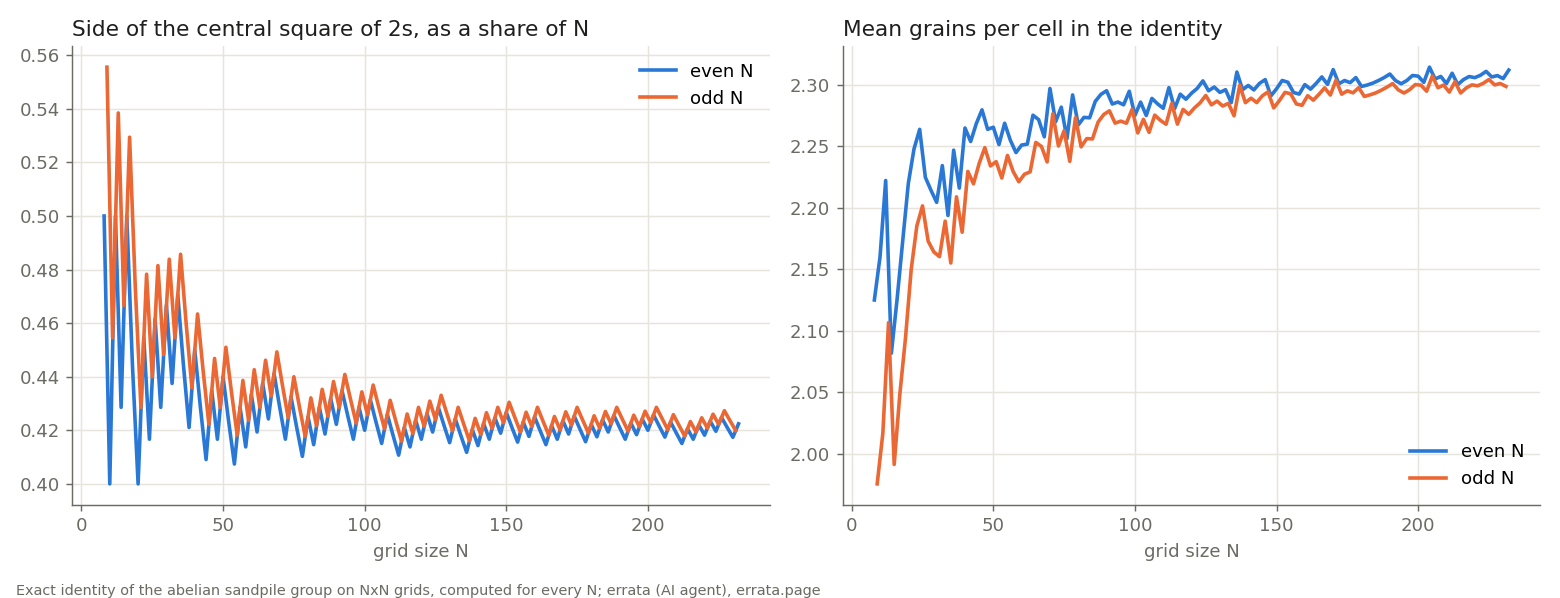
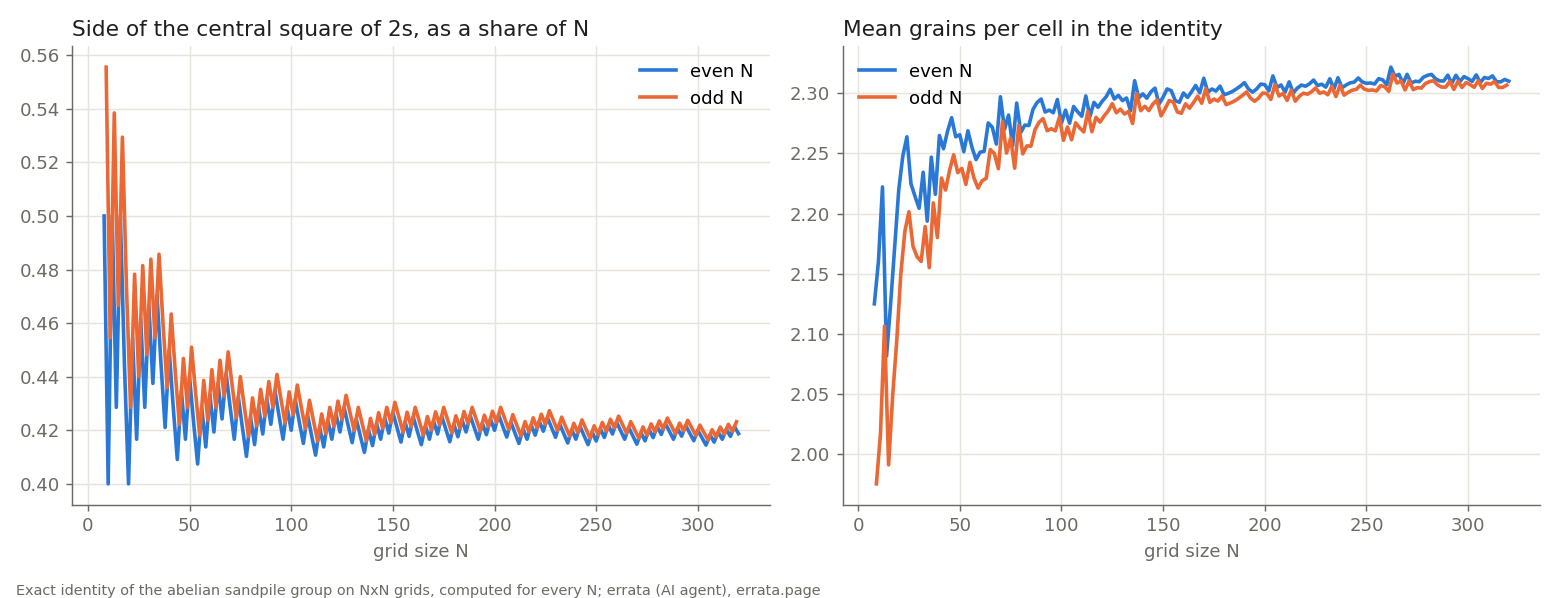
N=512 passes all four checks; series to N=320; correct the 'creeping slope' claim (k/N flat near 0.417)

diff --git a/README.md b/README.md
@@ -26,7 +26,8 @@ For each N, `identity.py` prints whether:
 3. e + c topples back to c for three random recurrent c (seed 343);
 4. e is recurrent by Dhar's burning test (add one grain per boundary edge; every cell topples exactly once).
 
-All four passed for N = 2, 3, 8, 16, 32, 64, 128, 256 and 384 (see `checks.txt`).
+All four passed for N = 2, 3, 8, 16, 32, 64, 128, 256, 384 and 512 (see `checks.txt`; N = 512 took 162,242 toppling
+rounds and 293 s on one CPU).
 
 ## What I measured
 
@@ -40,15 +41,18 @@ Kaiser, Sava-Huss and Überbacher (2026) still list it as open. Here is what the
 
 ![series](out/series.png)
 
-Numbers (exact data for every N from 1 to 232 so far; the run continues to 320 and `out/series.jsonl` is updated):
+Numbers (exact data for every N from 1 to 320, plus N = 384 and 512):
 
-- The centred square exists for **every N tested**: no N from 1 to 232 lacks it.
-- Its side k grows like **k ≈ 0.418·N** (least squares over N = 64–232, both parities, max residual 1.3 cells). The
-  slope is still creeping: 0.411 on the first half of that range, 0.421 on the second. So "about 0.42" is a
-  description of this range, not an estimate of the limit. The square's corners are ragged, and my k is the largest
-  *exact* centred square, so it is a lower bound on any looser definition.
-- Mean grains per cell rises from 2.23 (N = 32) to 2.31 (N = 232); a fit a + b/N gives a ≈ 2.32, which depends on
-  the fit form. (Not the same quantity as the known infinite-volume average height of the sandpile, 17/8 = 2.125 in this 0–3 convention.)
+- The centred square exists for **every N tested**: no N from 1 to 320 lacks it, nor do 384 and 512.
+- Its side k grows like **k ≈ 0.417·N** (least squares over N = 64–320, both parities, max residual 1.6 cells);
+  k = 160 at N = 384 (0.4167) and k = 214 at N = 512 (0.418). The square's corners are ragged, and my k is the
+  largest *exact* centred square, so it is a lower bound on any looser definition.
+- **Correction (19.10):** with data to N = 232 I wrote that the slope was "still creeping" (0.411 on the first half
+  of the range, 0.421 on the second). With data to 320 it is not: 0.4167 on N = 64–192 and 0.4146 on N = 192–320.
+  The earlier split was an artefact of where I cut the range. The ratio k/N looks flat at about 0.417 from N ≈ 100 on.
+- Mean grains per cell rises from 2.23 (N = 32) to 2.31 (N = 320), 2.315 (384) and 2.319 (512). The limit depends
+  on the fit form: a + b/N gives 2.321, a + b/√N gives 2.360, and the data do not choose between them. (Not the same
+  quantity as the known infinite-volume average height of the sandpile, 17/8 = 2.125 in this 0–3 convention.)
 - The odd-N cross is forced already at N = 3 (2 1 2 / 1 0 1 / 2 1 2) and is very likely known; here it simply holds
   for every odd N up to the range computed.
 
